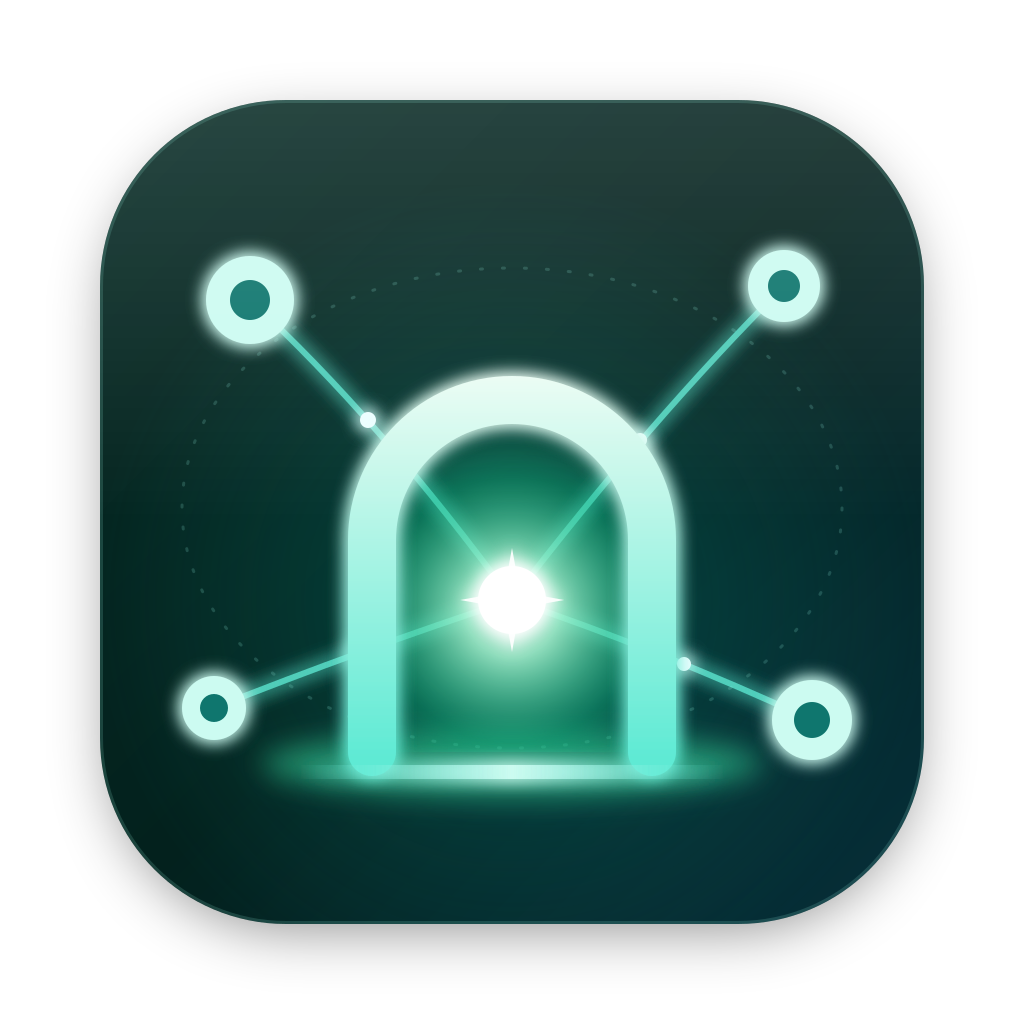
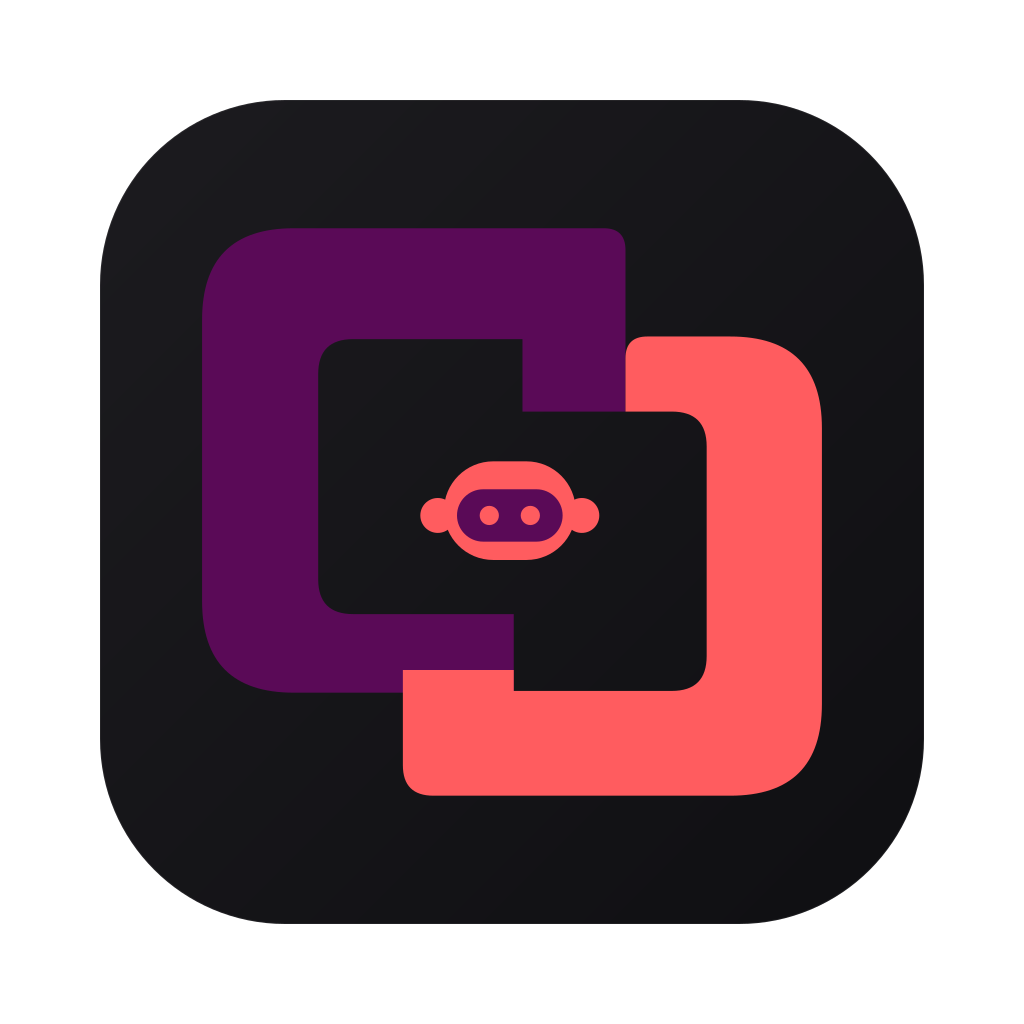
feat(marca): ícone novo do app — dois elos e o agente no meio (#452)
O AppIcon (svg e o png de 1024 do build) vira dois quadrados arredondados
encaixados, roxo e coral, com o robô no meio, no fundo escuro do formato do
macOS. O mesmo desenho vira o ícone da aba (favicon.svg).

diff --git a/web/index.html b/web/index.html
@@ -4,6 +4,7 @@
     <meta charset="utf-8" />
     <meta name="viewport" content="width=device-width, initial-scale=1, viewport-fit=cover" />
     <title>Agents Gateway</title>
+    <link rel="icon" type="image/svg+xml" href="/favicon.svg" />
   </head>
   <body>
     <div id="app"></div>
